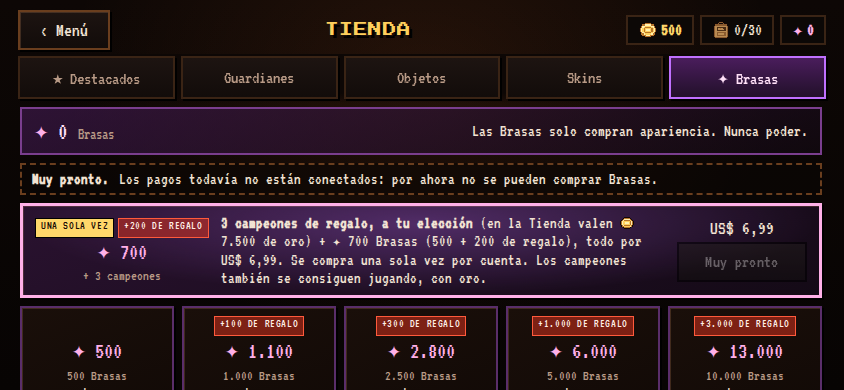
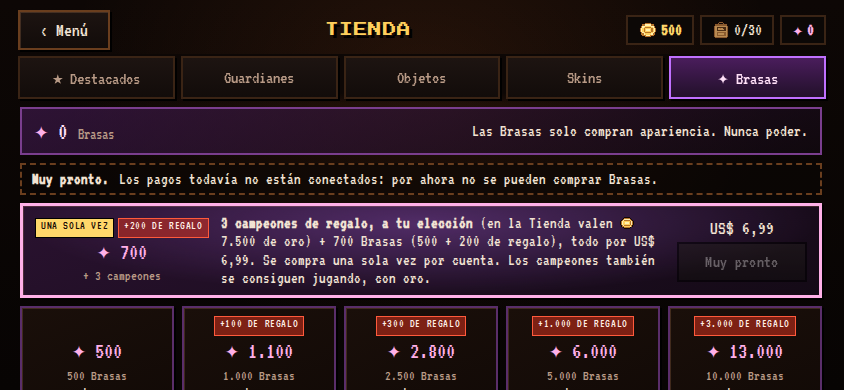
feat(shop): welcome picker polish, collections strip, notice tests, screenshots

Changed region(s): [[0.2464, 0.5846, 0.8009, 0.7385]]

diff --git a/tools/collection/welcome-picks.js b/tools/collection/welcome-picks.js
@@ -1,0 +1,139 @@
+#!/usr/bin/env node
+'use strict';
+// PACK DE BIENVENIDA = 3 CAMPEONES de punta a punta: página real del juego + API real de cuentas/billetera (mismo origen, datos temporales).
+// Cubre: pestaña ✦ Brasas visible, paquetes con precio en US$, Pack de bienvenida visible y oculto tras un webhook
+// firmado (secreto HMAC de prueba), checkout deshabilitado ("Muy pronto") sin pasarela, chip ✦ del hub (también sin
+// sesión) que abre la pestaña, botón del final de partida que abre Skins de ese guardián y sin desbordes a 844x390 y
+// 667x375. Guarda docs/production/brasas-store-844x390.png y docs/production/hub-brasas-chip.png.
+// Uso: NODE_PATH=/opt/node-tools/node_modules:server/node_modules node tools/collection/welcome-picks.js
+//      (en CI: NODE_PATH=/tmp/horda-balance/node_modules después de npm ci --prefix server). Chromium: CHROMIUM_PATH opcional.
+const {chromium}=require('playwright'),path=require('path'),fs=require('fs'),os=require('os'),http=require('http'),crypto=require('crypto'),assert=require('node:assert/strict');
+const ROOT=path.resolve(__dirname,'../..');
+const TYPES={'.html':'text/html','.js':'text/javascript','.css':'text/css','.png':'image/png','.json':'application/json','.webp':'image/webp','.svg':'image/svg+xml','.webmanifest':'application/json','.woff2':'font/woff2','.ttf':'font/ttf','.mp3':'audio/mpeg','.ogg':'audio/ogg','.wav':'audio/wav'};
+const SHOTS=path.join(ROOT,'docs/production');
+const SECRET='secreto-de-prueba-brasas-0123';
+(async()=>{
+ delete process.env.PAYMENTS_PROVIDER;delete process.env.PAYMENTS_WEBHOOK_SECRET;delete process.env.PAYMENTS_CHECKOUT_URL;
+ const dir=fs.mkdtempSync(path.join(os.tmpdir(),'horda-brasas-'));const oldAdmins=process.env.ADMIN_USERS;delete process.env.ADMIN_USERS;
+ const {create}=require('../../server/accounts');
+ const app=create({dataDir:dir,databaseUrl:'',adminUsers:'',log:()=>{},originAllowed:()=>true});await app.ready;
+ const server=http.createServer((req,res)=>{if(app.handle(req,res))return;const p=path.join(ROOT,decodeURIComponent(new URL(req.url,'http://x').pathname));if(!p.startsWith(ROOT)||!fs.existsSync(p)||fs.statSync(p).isDirectory()){res.writeHead(200,{'content-type':'text/html'});res.end(fs.readFileSync(path.join(ROOT,'index.html')));return;}res.writeHead(200,{'content-type':TYPES[path.extname(p)]||'application/octet-stream'});fs.createReadStream(p).pipe(res);});
+ await new Promise(r=>server.listen(0,'127.0.0.1',r));const base='http://127.0.0.1:'+server.address().port;
+ async function request(method,url,body,token,headers){const r=await fetch(base+url,{method,headers:{'content-type':'application/json',...(token?{authorization:'Bearer '+token}:{}),...(headers||{})},body:body===undefined?undefined:(typeof body==='string'?body:JSON.stringify(body))});let j=null;try{j=await r.json();}catch(e){}return {status:r.status,j};}
+ async function account(name){
+  const reg=await request('POST','/api/register',{user:name,pass:'player-password'});assert.equal(reg.status,201,JSON.stringify(reg.j));const token=reg.j.token;
+  await request('PUT','/api/save',{data:{gold:500,champions:{tanque:{unlocked:true,level:3}},arenasCleared:{},stash:[],cromas:{},cosmeticUnlocks:{},firstRun:null,starterChosen:true,starterGiftV1:true,starterSkin:'vale',playtestV1Bonus:true,campaignResetV1:true,campaignResetV2:true,campaignResetV3:true,testStageV1:true},baseVersion:0},token);
+  return {token,id:(await app.store.getUserByKey(name.toLowerCase())).id,name};
+ }
+ const browser=await chromium.launch({executablePath:process.env.CHROMIUM_PATH||undefined,args:['--no-sandbox','--disable-dev-shm-usage']});let checks=0;const ok=(c,m)=>{assert(c,m);checks++;};
+ async function open(acc,w,h){
+  const ctx=await browser.newContext({viewport:{width:w||844,height:h||390}});
+  await ctx.addInitScript(([base,token,name])=>{try{localStorage.setItem('horda_account:'+encodeURIComponent(base),JSON.stringify({token,user:name,name,expiresAt:Date.now()+86400000,apiBase:base}));}catch(e){}},[base,acc.token,acc.name]);
+  const page=await ctx.newPage();const errors=[];page.on('pageerror',e=>errors.push(e.message));
+  await page.goto(base+'/index.html?lazy=0&api='+encodeURIComponent(base));
+  await page.waitForFunction(()=>typeof assetsAllReady==='function'&&assetsAllReady()&&typeof shopOpen==='function'&&typeof renderMainMenu==='function');
+  await page.waitForFunction(()=>acct.lastPull&&!acct.pulling&&!acct.applying,null,{timeout:30000});
+  await page.evaluate(()=>{save.firstRun=null;selectedClass='tanque';setState('mainmenu');renderMainMenu();});
+  return {page,ctx,errors};
+ }
+ const pay=async(userId,paymentId)=>{process.env.PAYMENTS_PROVIDER='hmac';process.env.PAYMENTS_WEBHOOK_SECRET=SECRET;const raw=JSON.stringify({pack:'brasas_bienvenida',userId,paymentId});
+  return request('POST','/api/payments/webhook',raw,undefined,{'x-horda-signature':crypto.createHmac('sha256',SECRET).update(raw).digest('hex')});};
+ const noOverflow=async(page,label)=>{const r=await page.evaluate(()=>{const bad=[];const de=document.documentElement;if(de.scrollWidth>de.clientWidth+1)bad.push('document '+de.scrollWidth+'>'+de.clientWidth);
+   for(const n of document.querySelectorAll('.wp-panel,.wp-card,.wp-head,.wp-foot,.mode-card-note,#run-intro .ri-first,.wp-banner')){if(n.offsetParent===null&&getComputedStyle(n).position!=='fixed')continue;if(n.scrollWidth>n.clientWidth+2)bad.push((n.className||n.id)+' '+n.scrollWidth+'>'+n.clientWidth);const r=n.getBoundingClientRect();if(r.width&&(r.right>innerWidth+1||r.left<-1))bad.push((n.className||n.id)+' fuera de pantalla');}
+   const p=document.querySelector('.wp-panel');if(p){const r=p.getBoundingClientRect();if(r.bottom>innerHeight+1||r.top<-1)bad.push('panel fuera de pantalla '+Math.round(r.top)+'..'+Math.round(r.bottom));}
+   return bad;});assert.deepEqual(r,[],'overflow '+label);checks++;};
+ try{
+  fs.mkdirSync(SHOTS,{recursive:true});
+  const A=await account('Bienvenido');
+  // ---- sin compra: sin derecho, sin cartel, y el servidor no deja reclamar ----
+  {const {page,ctx,errors}=await open(A);
+   await page.evaluate(()=>shopOpen('brasas'));await page.waitForFunction(()=>PREMIUM.at>0);
+   ok(await page.evaluate(()=>PREMIUM.welcome&&PREMIUM.welcome.entitled===0&&!premiumWelcomePending()),'sin compra no hay derecho');
+   ok(await page.locator('.wp-banner').count()===0&&await page.locator('#welcome-picks').count()===0,'sin compra no hay cartel ni pantalla');
+   const r=await page.evaluate(()=>premiumWelcomeClaim('mago'));ok(!r.ok&&r.code==='NOT_PURCHASED','el servidor rechaza reclamar sin compra '+JSON.stringify(r));
+   ok(await page.evaluate(()=>!save.champions.mago.unlocked),'no se desbloqueó nada');
+   assert.deepEqual(errors,[]);await ctx.close();}
+  // ---- compra simulada (webhook firmado) -> la pantalla de elección se abre sola ----
+  const {page,ctx,errors}=await open(A);
+  await page.evaluate(()=>shopOpen('brasas'));await page.waitForFunction(()=>PREMIUM.at>0);
+  const hook=await pay(A.id,'pay_wp_1');ok(hook.status===200&&!hook.j.duplicate,'webhook '+JSON.stringify(hook));
+  await page.evaluate(()=>premiumRefresh(true));
+  await page.locator('#welcome-picks .wp-panel').waitFor();checks++;
+  const cards=await page.$$eval('[data-wp-pick]',ns=>ns.map(n=>n.dataset.wpPick));
+  ok(cards.length>=6&&!cards.includes('tanque'),'candidatos sin los que ya tengo: '+cards.length);
+  ok(await page.evaluate(ids=>ids.every(k=>{const m=championMeta(k);return m.category==='STANDARD'&&m.releaseState==='RELEASED';}),cards),'solo STANDARD publicados (nada de Ascensión, Fundadores ni Familia)');
+  ok(/te quedan 3 por elegir/.test(await page.locator('.wp-sub').innerText())&&/7\.500|2\.500/.test(await page.locator('.wp-sub').innerText()),'texto: te quedan 3 y su valor en oro');
+  for(const [w,h] of [[844,390],[667,375]]){await page.setViewportSize({width:w,height:h});await page.waitForTimeout(150);await noOverflow(page,'picker '+w);}
+  await page.setViewportSize({width:844,height:390});
+  // elegir 4: solo entran 3
+  for(const k of cards.slice(0,4))await page.locator(`[data-wp-pick="${k}"]`).click();
+  ok(await page.locator('.wp-card.on').count()===3,'no se pueden marcar más de 3');
+  ok(/Elegidos: 3 de 3/.test(await page.locator('.wp-count').innerText()),'contador');
+  await page.addStyleTag({content:'#qs-toasts{display:none!important}'});await page.screenshot({path:path.join(SHOTS,'welcome-picks-844x390.png')});
+  const chosen=cards.slice(0,3);
+  await page.evaluate(()=>{window.__autoConfirm=true;});
+  await page.locator('[data-wp-claim]').click();
+  await page.waitForFunction(()=>!document.getElementById('welcome-picks'),null,{timeout:15000});checks++;
+  ok(await page.evaluate(ch=>ch.every(k=>save.champions[k]&&save.champions[k].unlocked),chosen),'los 3 quedaron desbloqueados en el cliente');
+  ok(await page.evaluate(()=>PREMIUM.welcome.remaining===0&&PREMIUM.welcome.claimed.length===3&&!document.querySelector('.wp-banner')),'sin elecciones pendientes ni cartel');
+  const sv=(await request('GET','/api/save',undefined,A.token)).j.data;
+  ok(chosen.every(k=>sv.champions[k]&&sv.champions[k].unlocked),'los 3 están en el guardado del servidor');
+  ok(sv.gold===500,'el oro no se tocó (regalo, no compra)');
+  const wal=(await request('GET','/api/wallet',undefined,A.token)).j;
+  ok(wal.premium===700&&wal.welcome.claimed.length===3&&wal.welcome.eligible.length===0&&wal.ledger.filter(e=>/^welcome_pick:/.test(e.reason)).length===3,'libro mayor: 700 ✦ y 3 elecciones '+JSON.stringify(wal.welcome));
+  // un cuarto pedido directo a la API: rechazado
+  const extra=cards[5];const r4=await request('POST','/api/wallet/welcome/claim',{champion:extra},A.token);ok(r4.status===409&&r4.j.error==='NO_PICKS_LEFT','el servidor no deja un cuarto campeón '+JSON.stringify(r4));
+  ok(await page.evaluate(k=>premiumWelcomeClaim(k).then(r=>!r.ok),extra),'el cliente tampoco');
+  ok(await page.evaluate(k=>!save.champions[k].unlocked,extra),'el cuarto no se desbloqueó');
+  assert.deepEqual(errors,[]);await ctx.close();
+  // ---- recargar el juego: todo sigue ahí ----
+  {const o=await open(A);
+   ok(await o.page.evaluate(ch=>ch.every(k=>save.champions[k].unlocked),chosen),'tras recargar los 3 siguen siendo tuyos');
+   await o.page.evaluate(()=>shopOpen('brasas'));await o.page.waitForFunction(()=>PREMIUM.at>0);
+   ok(await o.page.evaluate(()=>!premiumWelcomePending())&&await o.page.locator('.wp-banner').count()===0,'recargado: no vuelve a ofrecer');
+   assert.deepEqual(o.errors,[]);await o.ctx.close();}
+  // ---- elegir una parte, cerrar el juego, y reclamar el resto después ----
+  const B=await account('Parcial');await pay(B.id,'pay_wp_b');
+  {const o=await open(B);
+   await o.page.evaluate(()=>shopOpen('destacados'));
+   await o.page.locator('#welcome-picks .wp-panel').waitFor();
+   const bc=await o.page.$$eval('[data-wp-pick]',ns=>ns.map(n=>n.dataset.wpPick));
+   await o.page.evaluate(()=>{window.__autoConfirm=true;});
+   await o.page.locator(`[data-wp-pick="${bc[0]}"]`).click();await o.page.locator('[data-wp-claim]').click();
+   await o.page.locator('.wp-count').getByText('Elegidos: 0 de 2').waitFor();checks++;
+   ok(await o.page.evaluate(()=>PREMIUM.welcome.remaining===2),'quedan 2');
+   await o.page.locator('[data-wp-close]').click();
+   ok(/Reclamar mis 2 campeones/i.test(await o.page.locator('.wp-banner').innerText()),'cartel con 2 pendientes');
+   assert.deepEqual(o.errors,[]);await o.ctx.close();
+   B.first=bc[0];}
+  {const o=await open(B);
+   ok(await o.page.evaluate(k=>save.champions[k].unlocked,B.first),'el primero sobrevive a cerrar el juego');
+   await o.page.evaluate(()=>shopOpen('objetos'));
+   await o.page.locator('#welcome-picks .wp-panel').waitFor();checks++;
+   ok(await o.page.locator('[data-wp-pick]').count()>=5&&await o.page.locator(`[data-wp-pick="${B.first}"]`).count()===0,'el ya elegido no se ofrece de nuevo');
+   const bc=await o.page.$$eval('[data-wp-pick]',ns=>ns.map(n=>n.dataset.wpPick));
+   await o.page.evaluate(()=>{window.__autoConfirm=true;});
+   await o.page.locator(`[data-wp-pick="${bc[0]}"]`).click();await o.page.locator(`[data-wp-pick="${bc[1]}"]`).click();await o.page.locator('[data-wp-claim]').click();
+   await o.page.waitForFunction(()=>!document.getElementById('welcome-picks'));checks++;
+   const w=(await request('GET','/api/wallet',undefined,B.token)).j.welcome;ok(w.claimed.length===3&&w.remaining===0,'en total 3 '+JSON.stringify(w));
+   assert.deepEqual(o.errors,[]);await o.ctx.close();}
+  // ---- aviso "primer jugador en completar el juego" ----
+  {const o=await open(A);const page=o.page;
+   await page.evaluate(()=>setState('modeselect'));
+   const txt=await page.locator('#campaign-first-notice').innerText();
+   ok(txt.includes('El primer jugador en completar el juego puede pedir un campeón con diseño propio.')&&txt.length<=120,'aviso en la tarjeta de Campaña ('+txt.length+')');
+   ok(await page.evaluate(()=>document.getElementById('campaign-first-notice').textContent.includes(FIRST_FINISH_NOTICE)),'mismo texto que la presentación');
+   for(const [w,h] of [[844,390],[667,375]]){await page.setViewportSize({width:w,height:h});await page.waitForTimeout(120);await noOverflow(page,'aviso '+w);
+    const r=await page.evaluate(()=>{const n=document.getElementById('campaign-first-notice'),c=n.closest('.mode-card').getBoundingClientRect(),b=n.getBoundingClientRect();return b.left>=c.left-1&&b.right<=c.right+1&&b.bottom<=c.bottom+1&&b.right<=innerWidth;});ok(r,'aviso dentro de su tarjeta '+w);}
+   await page.setViewportSize({width:844,height:390});
+   await page.screenshot({path:path.join(SHOTS,'campaign-first-notice-844x390.png')});
+   // presentación de la Arena Infernal: aparece; en otra arena no
+   await page.evaluate(()=>{window.__autoConfirm=true;runIntroShow('infernal',()=>{});});
+   const f=page.locator('#run-intro .ri-first');await f.waitFor({state:'visible'});ok((await f.innerText()).includes('El primer jugador en completar el juego puede pedir un campeón con diseño propio.'),'aviso en la Arena Infernal');
+   for(const [w,h] of [[844,390],[667,375]]){await page.setViewportSize({width:w,height:h});await page.waitForTimeout(120);await noOverflow(page,'infernal '+w);}
+   await page.evaluate(()=>{RUN_INTRO.open=false;document.getElementById('run-intro').classList.add('hidden');runIntroShow('ciudad',()=>{});});
+   ok(await page.locator('#run-intro .ri-first').isHidden(),'en otras arenas no aparece');
+   assert.deepEqual(o.errors,[]);await o.ctx.close();}
+  console.log(`welcome-picks: ${checks} checks PASS`);
+ }finally{await browser.close();await new Promise(r=>server.close(r));await app.close();fs.rmSync(dir,{recursive:true,force:true});if(oldAdmins===undefined)delete process.env.ADMIN_USERS;else process.env.ADMIN_USERS=oldAdmins;delete process.env.PAYMENTS_PROVIDER;delete process.env.PAYMENTS_WEBHOOK_SECRET;}
+})().catch(e=>{console.error(e);process.exitCode=1;});

diff --git a/js/ui/shop-ui.js b/js/ui/shop-ui.js
@@ -406,7 +406,7 @@ function renderShopSkins(panel){
   }).join("");
   const pending = Object.keys(SET_DB).filter(id=>!withSkin.includes(id)).map(id=>SET_DB[id].name);
   const focusBar = focus ? `<div class="shop-skin-focus" data-skin-focus="${focus}"><span>Apariencias de <b style="color:${CLASSES[focus].color}">${CLASSES[focus].name}</b></span><button class="shop-btn sec" type="button" id="shop-skin-focus-clear">Ver todas</button></div>` : "";
-  panel.innerHTML = `${focusBar}<div class="lobby-note">Reunir un set o recibir un regalo desbloquea su apariencia. Usarla no cambia tus objetos ni estadísticas. Cada apariencia se paga con Brasas ✦ o con oro: el precio de las dos está a la vista.</div>
+  panel.innerHTML = `${focusBar}<div class="lobby-note">Reunir un set o recibir un regalo desbloquea su apariencia. Usarla no cambia tus objetos ni estadísticas. Cada apariencia se paga con Brasas o con oro: el precio de las dos está a la vista.</div>
     ${_shopCollectionsHTML({champ:focus})}
     ${cards || !focus ? `<div class="shop-skin-list">${cards || '<div class="inv-empty">Todavía no hay skins.</div>'}</div>` : ""}
     ${focus ? "" : `<div class="shop-soon-box shop-soon-small">Sets sin skin todavía (arte pendiente, ver docs/assets_faltantes/skins_sets/): ${pending.join(" · ")}. Con el set completo se ve su aura plena.</div>`}`;
@@ -441,7 +441,7 @@ function _brasasPackCard(p, welcome){
   if(welcome) return `<div class="brasas-pack welcome" data-brasas-pack="${p.id}">
     <div class="brasas-welcome-main"><div class="brasas-pack-top"><span class="ui-tag hot">UNA SOLA VEZ</span>${p.bonus ? `<span class="ui-tag sale brasas-bonus">+${p.bonus.toLocaleString("es-AR")} de regalo</span>` : ""}</div>
       <div class="brasas-pack-amt">✦ ${total.toLocaleString("es-AR")}</div><div class="brasas-pack-name">+ ${p.championGifts||PRICING.welcome.champions} campeones</div></div>
-    <div class="brasas-welcome-note"><b>${p.championGifts||PRICING.welcome.champions} campeones de regalo, a tu elección</b> (en la Tienda valen 🪙 ${fmtGold((p.championGifts||PRICING.welcome.champions)*PRICING.gold.champion)} de oro) + ✦ ${(p.premium+(p.bonus||0)).toLocaleString("es-AR")} Brasas (${p.premium.toLocaleString("es-AR")} + ${(p.bonus||0).toLocaleString("es-AR")} de regalo), todo por ${price}. Se compra una sola vez por cuenta. Los campeones también se consiguen jugando, con oro.</div>
+    <div class="brasas-welcome-note"><b>${p.championGifts||PRICING.welcome.champions} campeones de regalo, a tu elección</b> (en la Tienda valen 🪙 ${fmtGold((p.championGifts||PRICING.welcome.champions)*PRICING.gold.champion)} de oro) + ${(p.premium+(p.bonus||0)).toLocaleString("es-AR")} Brasas (${p.premium.toLocaleString("es-AR")} + ${(p.bonus||0).toLocaleString("es-AR")} de regalo), todo por ${price}. Se compra una sola vez por cuenta. Los campeones también se consiguen jugando, con oro.</div>
     <div class="brasas-welcome-buy"><div class="brasas-pack-price">${price}</div>${btn}</div>
   </div>`;
   return `<div class="brasas-pack" data-brasas-pack="${p.id}">
@@ -461,7 +461,7 @@ function _brasasWhatHTML(){
     if(picks.length>=3) break;
   }
   if(!picks.length) return "";
-  return `<div class="shop-row-head"><span class="shop-row-title">¿QUÉ COMPRO CON BRASAS?</span><span class="shop-renew">croma ✦ ${premiumFmt(PRICING.brasas.croma)} · skin ✦ ${premiumFmt(PRICING.brasas.set)} · diseño propio ✦ ${premiumFmt(PRICING.brasas.autor)}</span></div>
+  return `<div class="shop-row-head"><span class="shop-row-title">¿QUÉ COMPRO CON BRASAS?</span><span class="shop-renew">croma ${premiumFmt(PRICING.brasas.croma)} · skin ${premiumFmt(PRICING.brasas.set)} · diseño propio ${premiumFmt(PRICING.brasas.autor)} Brasas</span></div>
     <div class="brasas-what">${picks.map(({id, k})=>`<button type="button" class="brasas-what-card" data-brasas-skin="${id}" data-brasas-champ="${k}">
       <img src="${premiumSkinPreview(id)}" alt="" loading="lazy"><span class="brasas-what-name">${premiumSkinName(id)}</span><span class="shop-item-sub">${CLASSES[k].name} · ✦ ${premiumFmt(premiumPrice(id))}</span></button>`).join("")}</div>`;
 }
@@ -477,8 +477,8 @@ function _shopCollectionsHTML(opts){
     const q = premiumCollection(k), c = CLASSES[k], can = PREMIUM.premium != null && PREMIUM.premium >= q.price;
     return `<div class="shop-bundle shop-col" data-col-card="${k}">
       <div class="shop-col-imgs">${q.ids.slice(0,3).map(id=>`<img src="${premiumSkinPreview(id)}" alt="" loading="lazy">`).join("")}</div>
-      <div class="shop-bundle-name" style="color:${c.color||"var(--ui-gold)"}">Colección de ${c.name}</div>
-      <div class="shop-item-sub">${q.n} apariencias · sueltas ✦ ${premiumFmt(q.sum)} · <b>ahorrás ✦ ${premiumFmt(q.save)} (${q.offPct}%)</b></div>
+      <div class="shop-bundle-name" style="color:${c.color||"var(--ui-gold)"}">Colección de ${premiumChampName(k)}</div>
+      <div class="shop-item-sub">${q.n} apariencias · sueltas ${premiumFmt(q.sum)} Brasas · <b>ahorrás ${premiumFmt(q.save)} (${q.offPct}%)</b></div>
       <div class="shop-deal-buy"><button type="button" class="shop-btn premium-btn" data-col-premium="${k}" ${PREMIUM.premium != null && !can ? "disabled" : ""} title="${PREMIUM.premium == null ? "Entrá con tu cuenta para usar Brasas" : can ? "Pagar con Brasas" : "No te alcanzan las Brasas"}">✦ ${premiumFmt(q.price)}</button></div></div>`;
   }).join("");
   return `<div class="shop-row-head"><span class="shop-row-title">COLECCIONES</span><span class="shop-renew">varias apariencias de un campeón, más baratas juntas · solo apariencia</span></div><div class="shop-strip ui-scroll-x">${cards}</div>`;
@@ -501,7 +501,7 @@ function renderShopBrasas(panel){
     ${status}
     ${welcome ? _brasasPackCard(welcome, true) : ""}
     ${logged && regular.length ? `<div class="brasas-packs">${regular.map(p=>_brasasPackCard(p, false)).join("")}</div>
-    <div class="brasas-fine">Precios en dólares estadounidenses (US$), finales y a la vista antes de pagar. Cada apariencia tiene precio fijo en Brasas: croma ${premiumFmt(PRICING.brasas.croma)} ✦, skin ${premiumFmt(PRICING.brasas.set)} ✦, skin con diseño propio ${premiumFmt(PRICING.brasas.autor)} ✦. Los campeones no se compran con Brasas: se compran con oro. Sin cajas sorpresa: comprás exactamente lo que ves.</div>` : ""}
+    <div class="brasas-fine">Precios en dólares estadounidenses (US$), finales y a la vista antes de pagar. Cada apariencia tiene precio fijo en Brasas: croma ${premiumFmt(PRICING.brasas.croma)}, skin ${premiumFmt(PRICING.brasas.set)} y skin con diseño propio ${premiumFmt(PRICING.brasas.autor)} Brasas. Los campeones no se compran con Brasas: se compran con oro. Sin cajas sorpresa: comprás exactamente lo que ves.</div>` : ""}
     ${_brasasWhatHTML()}
     ${logged ? _shopCollectionsHTML({limit:4}) : ""}`;
   const lg = panel.querySelector("#brasas-login");

diff --git a/js/systems/premium.js b/js/systems/premium.js
@@ -34,6 +34,8 @@ function premiumGoldPrice(id){
   const d = typeof CROMA_SKINS !== "undefined" ? CROMA_SKINS[id] : null;
   return pricingCosmeticGold(premiumTier(id), d ? d.price : 0);
 }
+// Nombre corto del campeón ("Axiom, el Reengendrado" -> "Axiom")
+function premiumChampName(k){ return typeof CLASSES !== "undefined" && CLASSES[k] ? String(CLASSES[k].name).split(",")[0] : k; }
 function premiumFmt(n){ return n.toLocaleString("es-AR"); }
 
 /* ---------- precio en oro por escalón (9000 set · 12000 diseño propio · croma: su precio propio) ---------- */
@@ -132,7 +134,7 @@ async function premiumBuySkin(id){
   if(premiumSkinOwned(id)) return { ok: false, reason: "Ya es tuya" };
   const price = premiumPrice(id); if(!(price > 0)) return { ok: false, reason: PREMIUM_ERR.BAD_SKU };
   const o = await premiumPost("/api/wallet/buy", { sku: id, ref: premiumNewRef(), expectedPrice: price });
-  if(!o.r) return { ok: false, reason: o.code === "INSUFFICIENT" ? `No te alcanzan las Brasas (cuesta ${premiumFmt(price)} ✦).` : o.fail };
+  if(!o.r) return { ok: false, reason: o.code === "INSUFFICIENT" ? `No te alcanzan las Brasas (cuesta ${premiumFmt(price)}).` : o.fail };
   premiumApply(o.r.j);
   if(typeof AlphaServices !== "undefined") AlphaServices.emit("skin", { skin: id, currency: "premium", price });
   return { ok: true, premium: o.r.j.premium };
@@ -148,7 +150,7 @@ async function premiumBuyCollection(k, expectedPrice){
   if(q.n < PRICING.collection.minPieces) return { ok: false, reason: PREMIUM_ERR.NOT_A_COLLECTION };
   if(expectedPrice != null && expectedPrice !== q.price) return { ok: false, reason: PREMIUM_ERR.PRICE_CHANGED };
   const o = await premiumPost("/api/wallet/buy-collection", { champion: k, ref: premiumNewRef(), expectedPrice: q.price });
-  if(!o.r) return { ok: false, reason: o.code === "INSUFFICIENT" ? `No te alcanzan las Brasas (cuesta ${premiumFmt(q.price)} ✦).` : o.fail };
+  if(!o.r) return { ok: false, reason: o.code === "INSUFFICIENT" ? `No te alcanzan las Brasas (cuesta ${premiumFmt(q.price)}).` : o.fail };
   premiumApply(o.r.j);
   if(typeof AlphaServices !== "undefined") AlphaServices.emit("collection", { champion: k, currency: "premium", price: q.price, n: q.n });
   return { ok: true, n: o.r.j.n, saved: o.r.j.saved, premium: o.r.j.premium };
@@ -235,7 +237,7 @@ if(typeof document !== "undefined") document.addEventListener("click", e => {
   const id = b.getAttribute("data-skin-premium");
   if(!premiumAvailable()){ gameAlert("Para pagar con Brasas tenés que entrar con tu cuenta (Opciones → Cuenta)."); return; }
   const gold = premiumGoldPrice(id), gnote = gold > 0 ? ` (o ${premiumFmt(gold)} de oro jugando)` : "";
-  gameConfirm(`¿Comprar ${premiumTier(id) === "croma" ? "el croma" : "la skin"} ${premiumSkinName(id)} por ${premiumFmt(premiumPrice(id))} ✦ Brasas${gnote}? Es solo apariencia: no cambia estadísticas.`, { okText: "Comprar con Brasas" }).then(async ok => {
+  gameConfirm(`¿Comprar ${premiumTier(id) === "croma" ? "el croma" : "la skin"} ${premiumSkinName(id)} por ${premiumFmt(premiumPrice(id))} Brasas${gnote}? Es solo apariencia: no cambia estadísticas.`, { okText: "Comprar con Brasas" }).then(async ok => {
     if(!ok) return;
     b.disabled = true;
     const r = await premiumBuySkin(id);
@@ -259,8 +261,8 @@ if(typeof document !== "undefined") document.addEventListener("click", e => {
   const k = b.getAttribute("data-col-premium"), q = premiumCollection(k);
   if(!premiumAvailable()){ gameAlert("Para pagar con Brasas tenés que entrar con tu cuenta (Opciones → Cuenta)."); return; }
   if(q.n < PRICING.collection.minPieces){ gameAlert(PREMIUM_ERR.NOT_A_COLLECTION); return; }
-  const nm = typeof CLASSES !== "undefined" && CLASSES[k] ? CLASSES[k].name : k;
-  gameConfirm(`¿Comprar la colección de ${nm} (${q.n} apariencias) por ${premiumFmt(q.price)} ✦ Brasas? Sueltas suman ${premiumFmt(q.sum)} ✦: ahorrás ${premiumFmt(q.save)} ✦ (${q.offPct}%). Es solo apariencia: no cambia estadísticas.`, { okText: "Comprar colección" }).then(async ok => {
+  const nm = premiumChampName(k);
+  gameConfirm(`¿Comprar la colección de ${nm} (${q.n} apariencias) por ${premiumFmt(q.price)} Brasas? Sueltas suman ${premiumFmt(q.sum)}: ahorrás ${premiumFmt(q.save)} Brasas (${q.offPct}%). Es solo apariencia: no cambia estadísticas.`, { okText: "Comprar colección" }).then(async ok => {
     if(!ok) return;
     b.disabled = true;
     const r = await premiumBuyCollection(k, q.price);

diff --git a/tools/collection/brasas-store.js b/tools/collection/brasas-store.js
@@ -39,7 +39,7 @@ const SECRET='secreto-de-prueba-brasas-0123';
   return {page,ctx,errors};
  }
  const noOverflow=async(page,label)=>{const r=await page.evaluate(()=>{const bad=[];const de=document.documentElement;if(de.scrollWidth>de.clientWidth+1)bad.push('document '+de.scrollWidth+'>'+de.clientWidth);
-   for(const sel of ['#shop-screen','#shop-panel','#shop-tabs','.hub-top','.brasas-head','.brasas-packs','.brasas-what','.brasas-pack.welcome','.shop-skin-focus'])for(const n of document.querySelectorAll(sel)){if(n.offsetParent===null)continue;if(n.scrollWidth>n.clientWidth+1)bad.push(sel+' '+n.scrollWidth+'>'+n.clientWidth);}
+   for(const sel of ['#shop-screen','#shop-panel','#shop-tabs','.hub-top','.brasas-head','.brasas-packs','.brasas-what','.brasas-pack.welcome','.shop-skin-focus','.shop-col','.shop-skin-info'])for(const n of document.querySelectorAll(sel)){if(n.offsetParent===null)continue;if(n.scrollWidth>n.clientWidth+1)bad.push(sel+' '+n.scrollWidth+'>'+n.clientWidth);}
    for(const n of document.querySelectorAll('.brasas-pack, .brasas-what-card, .shop-tab, #hub-premium-btn')){if(n.offsetParent===null)continue;const r=n.getBoundingClientRect();if(r.right>innerWidth+1||r.left<-1)bad.push((n.className||n.id)+' fuera de pantalla '+Math.round(r.left)+'..'+Math.round(r.right));if(n.scrollWidth>n.clientWidth+2)bad.push((n.className||n.id)+' texto desborda');}
    return bad;});assert.deepEqual(r,[],'overflow '+label);checks++;};
  try{
@@ -95,6 +95,15 @@ const SECRET='secreto-de-prueba-brasas-0123';
   await page.evaluate(()=>premiumRefresh(true));await page.locator('[data-brasas-soon]').first().waitFor();checks++;
   // otras pestañas siguen andando
   for(const t of ['destacados','campeones','objetos','skins','brasas']){await page.locator(`.shop-tab[data-shop-tab="${t}"]`).click();ok(await page.evaluate(t=>shopTab===t,t),'tab '+t);}
+  // Skins: colecciones con descuento real y precio en Brasas + oro a la vista
+  await page.locator('.shop-tab[data-shop-tab="skins"]').click();
+  ok(await page.locator('[data-col-card]').count()>0,'hay colecciones');
+  const col=await page.evaluate(()=>{const k=document.querySelector('[data-col-card]').dataset.colCard,q=premiumCollection(k);return {k,q,txt:document.querySelector('[data-col-card]').innerText};});
+  ok(col.q.price<col.q.sum&&col.q.save===col.q.sum-col.q.price&&col.txt.includes(col.q.price.toLocaleString('es-AR')),'descuento honesto '+JSON.stringify(col));
+  ok(await page.evaluate(()=>{const b=document.querySelector('[data-skin-buy]');return !b||!!b.parentElement.querySelector('[data-skin-premium]')&&b.parentElement.querySelector('[data-skin-premium]').getBoundingClientRect().left<=b.getBoundingClientRect().left+1;}),'Brasas primero, oro como alternativa');
+  for(const [w,h] of [[844,390],[667,375]]){await page.setViewportSize({width:w,height:h});await page.waitForTimeout(150);await noOverflow(page,'skins '+w);}
+  await page.setViewportSize({width:844,height:390});await page.addStyleTag({content:'#qs-toasts{display:none!important}'});await page.screenshot({path:path.join(SHOTS,'shop-skins-brasas-844x390.png')});
+  await page.locator('.shop-tab[data-shop-tab="brasas"]').click();
   ok(!(await page.locator('#shop-panel').innerText()).includes('set completo'),'sin textos de set completo');
   await page.locator('.shop-tab[data-shop-tab="destacados"]').click();
   ok(!(await page.locator('#shop-panel').innerText()).includes('PAQUETES DE SKINS'),'sin PAQUETES DE SKINS');

diff --git a/js/ui/welcome-picks.js b/js/ui/welcome-picks.js
@@ -28,7 +28,7 @@ function _wpRender(){
       const c = CLASSES[k], on = WELCOME_PICKS.sel.includes(k);
       return `<button type="button" class="wp-card ${on ? "on" : ""}" role="option" aria-selected="${on}" data-wp-pick="${k}" style="--hc:${c.color || "#ff7a2e"}">
         <canvas class="champ-anim wp-anim" width="72" height="72" data-class-key="${k}" data-idle="1" data-skin="" style="background:${c.color || "#888"}1c;"></canvas>
-        <span class="wp-name" style="color:${c.color || "var(--ui-ink)"}">${_wpEsc(c.name)}</span>
+        <span class="wp-name" style="color:${c.color || "var(--ui-ink)"}">${_wpEsc(premiumChampName(k))}</span>
         <span class="wp-role">${_wpEsc((c.role || "").split(".")[0])}</span>
         <span class="wp-mark">${on ? "✔ ELEGIDO" : "Tocá para elegir"}</span></button>`;
     }).join("") || '<div class="inv-empty">Ya tenés todos los campeones disponibles para el regalo.</div>'}</div>
@@ -52,7 +52,7 @@ function welcomePicksOpen(){
       _wpRender(); return;
     }
     if(t.hasAttribute("data-wp-claim") && !t.disabled && !WELCOME_PICKS.busy){
-      const chosen = WELCOME_PICKS.sel.slice(), names = chosen.map(k => CLASSES[k].name);
+      const chosen = WELCOME_PICKS.sel.slice(), names = chosen.map(k => premiumChampName(k));
       const ok = await gameConfirm(`¿Reclamar a ${names.join(", ")}? Es un regalo del Pack de bienvenida y no se puede cambiar después.`, { okText: "Reclamar" });
       if(!ok) return;
       WELCOME_PICKS.busy = true; _wpRender();
@@ -81,9 +81,7 @@ function welcomePicksMount(panel){
   box.innerHTML = `🎁 <b>Tenés ${w.remaining} ${w.remaining > 1 ? "campeones" : "campeón"} de regalo por elegir</b> (Pack de bienvenida). <button class="shop-btn hot" type="button" data-wp-open>Reclamar mis ${w.remaining} ${w.remaining > 1 ? "campeones" : "campeón"}</button>`;
   panel.insertBefore(box, panel.firstChild);
   box.querySelector("[data-wp-open]").addEventListener("click", () => welcomePicksOpen());
+  // una vez por sesión, al estar en la Tienda con el pago ya acreditado y elecciones pendientes (después, queda el cartel)
+  if(!WELCOME_PICKS.prompted && typeof state !== "undefined" && state === "shop" && PREMIUM.at){ WELCOME_PICKS.prompted = true; setTimeout(welcomePicksOpen, 0); }
 }
-if(typeof document !== "undefined") document.addEventListener("premium-change", () => {
-  if(welcomePicksIsOpen()){ _wpRender(); return; }
-  // una vez por sesión, al estar en la Tienda con el pago ya acreditado y elecciones pendientes
-  if(!WELCOME_PICKS.prompted && typeof state !== "undefined" && state === "shop" && PREMIUM.at && premiumWelcomePending()){ WELCOME_PICKS.prompted = true; welcomePicksOpen(); }
-});
+if(typeof document !== "undefined") document.addEventListener("premium-change", () => { if(welcomePicksIsOpen()) _wpRender(); });
